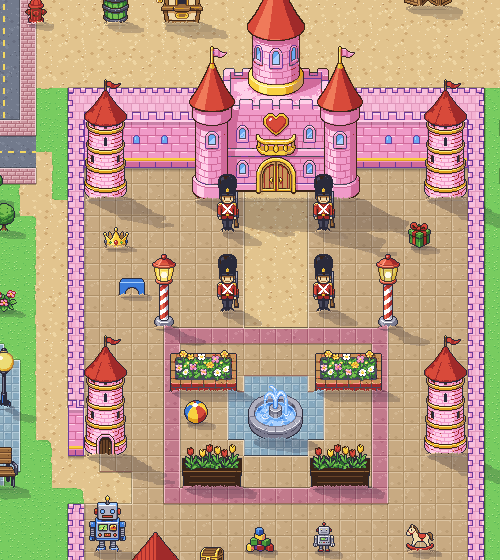
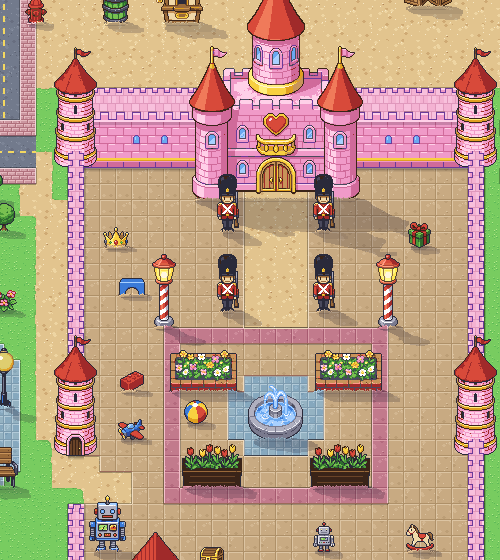
Karte 10: Tuerme wieder mittig auf der Mauer, die anschliessende Mauer ragt eine Kachel in den Turmfuss hinein
Claude-Session: https://claude.ai/code/session_01SaoYHKhnro4LFcPJqjaPsq

diff --git a/tools/karte10_objekte.py b/tools/karte10_objekte.py
@@ -254,16 +254,17 @@ def main():
     W_, O_ = 63 * T + 8, 88 * T + 8                       # Mitte der West- und Ostmauer (symmetrisch zu 1216)
     # Tuerme an Nord- und Seitenmauern stehen innen im Burghof direkt an der Mauer (Fuss auf dem Hofboden, nicht auf
     # der schmalen Mauerkrone - die Mauer laeuft sichtbar daneben weiter), exakt spiegelgleich zur Achse
-    IW_ = 64 * T + tw // 2 + 1                         # linke Kante des Turms = Innenkante der Westmauer
-    IO_ = 2 * ACHSE_BURG - IW_
-    tuerme = [(IW_, 39 * T + 15, False, to), (IO_, 39 * T + 15, False, to),     # Ecken Nordmauer (im Hof)
-              (IW_, 55 * T + 15, False, td), (IO_, 55 * T + 15, False, to),     # am Seitentor (West) / gegenueber (Ost)
+    # Tuerme mittig auf der Mauerlinie; die anschliessende Mauer ragt eine Kachel in den Turm hinein (ihre Krone liegt
+    # ueber dem untersten Turmstueck), so steht der Turm sichtbar am Boden und nicht auf der Mauer
+    tuerme = [(W_, WAND_FUSS, True, to), (O_, WAND_FUSS, True, to),             # Ecken Nordmauer
+              (W_, 55 * T + 15, True, td), (O_, 55 * T + 15, True, to),         # am Seitentor (West) / gegenueber (Ost)
               (W_, 73 * T + 15, True, td), (O_, 73 * T + 15, True, td)]         # Ecken Suedmauer (Baeume davor)
     for (cx, fy, wand, td) in tuerme:
         xx = int(round(cx - tm))
         objekte.append({'datei': td, 'basis': 'schloss2/02', 'x': xx, 'y': fy - tzu, 'fuss': th,
                         'kachel': [int(cx // T), fy // T], 'ebene': 1, 'vorrang': True, 'fest_pos': True,
-                        'anim': 'fahnen_tuch', **({'an_wand': True, 'kein_schatten': True, 'keine_verdeckung': True} if wand else {})})
+                        'anim': 'fahnen_tuch', 'an_wand': True, 'kein_schatten': True, 'keine_verdeckung': True,
+                        **({'mauer_davor': T} if fy < 70 * T else {})})
         belegen(td, xx, fy - tzu)
     # 2) Zug auf dem unteren Gleis (Raeder auf der Schiene), Lok vorne links (Schienenraeumer zeigt nach links)
     gy = lay['gleise'][1]['y'] * T + 13

diff --git a/tools/karte10_bauen.py b/tools/karte10_bauen.py
@@ -358,11 +358,26 @@ def bauen(frame=None, speichern=True):
                       key=lambda o: (0 if o.get('an_wand') else 1, o['y'] + o['fuss']))
         cache = {o['datei']: Image.open(os.path.join(OBJ, o['datei'])).convert('RGBA') for o in objs}
         lvl_s = lvl.copy()
+        grund_mauer = np.array(img)                         # Mauerkrone vor den Objekten (fuer 'mauer_davor')
         k8.schatten_ebene(img, [o for o in objs if not o.get('an_wand')], cache, lvl_s)
         vor_objekten = np.array(img)
         k4.objekte_zeichnen(img, objs, cache, np.zeros((Hp, Wp), bool), frame)
         k4.animieren(img, objs, cache, frame or 0, ruhig=frame is None)
         k8.verdeckung(img, [o for o in objs if not o.get('an_wand')], cache, lvl, vor_objekten)
+        # Mauer ragt in den Turm: die Mauerkrone der anschliessenden Mauer liegt ueber dem untersten Stueck des Turms
+        if any(o.get('mauer_davor') for o in objs):
+            arr = np.array(img)
+            for o in objs:
+                n_ = o.get('mauer_davor')
+                if not n_:
+                    continue
+                sp_a = np.array(cache[o['datei']].getchannel('A')) > 0
+                unten_ = o['y'] + int(np.nonzero(sp_a.any(axis=1))[0].max())
+                x0_, x1_ = max(0, o['x']), min(Wp, o['x'] + sp_a.shape[1])
+                y0_ = max(0, unten_ - n_ + 1)
+                m_ = mauer[y0_:unten_ + 1, x0_:x1_]
+                arr[y0_:unten_ + 1, x0_:x1_][m_] = grund_mauer[y0_:unten_ + 1, x0_:x1_][m_]
+            img = Image.fromarray(arr)
     if speichern and frame is None:
         img.save(os.path.join(KARTE, 'terrain.png'))
     print('Karte 10 %dx%d gebaut' % (cols, rows))
